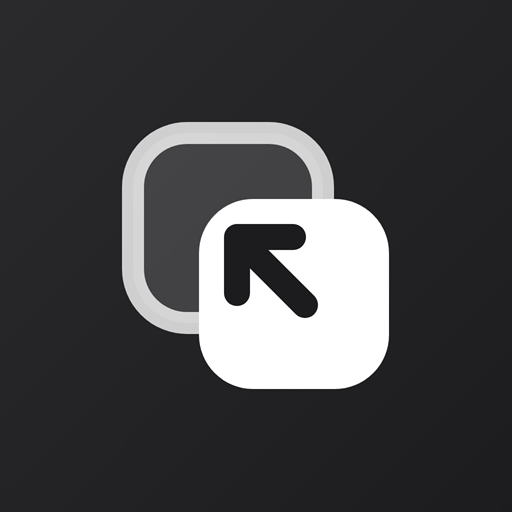
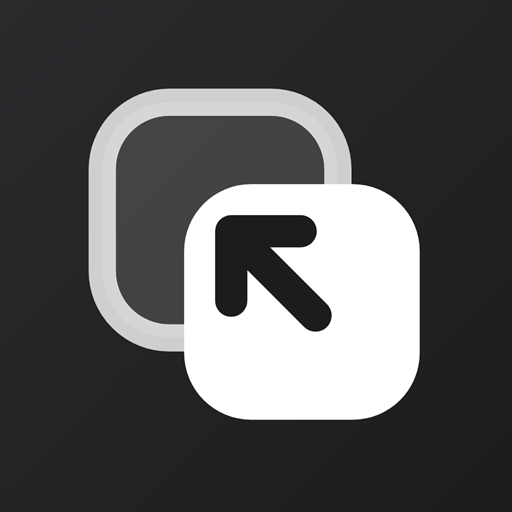
v49: groter teken in het app-icoon (iPhone, Android tot aan de veilige zone, desktop)

Changed region(s): [[0.1562, 0.1562, 0.8438, 0.8438]]

diff --git a/app.js b/app.js
@@ -1,6 +1,6 @@
 'use strict';
 
-const APP_VERSION = 'v48';
+const APP_VERSION = 'v49';
 /* --- Storage: IndexedDB with a projects store and a photos store (Blobs). --- */
 const DB_NAME = 'aligno';
 let db = null;

diff --git a/sw.js b/sw.js
@@ -1,4 +1,4 @@
-const CACHE = 'aligno-v48';
+const CACHE = 'aligno-v49';
 const SHARE_CACHE = 'aligno-share';
 const META_CACHE = 'aligno-meta';
 const ASSETS = [

diff --git a/DESIGN.md b/DESIGN.md
@@ -290,10 +290,10 @@ Een nieuw onderdeel bouw je eerst uit deze componenten. Lukt dat niet, voeg dan 
 ## 17. App-icoon
 
 - **Eén ontwerp**: het Aligno-teken. Twee kaders: de vorige foto als spookkader (lijn, licht gevuld) linksboven, de nieuwe foto als effen wit kader erover, met een **pijl die naar het spookkader wijst**: schuif je nieuwe foto op de vorige. Geen plus (die leest als "toevoegen"). Wit op vlak grafiet met hooguit een nauwelijks zichtbaar verloop (#2A2A2D → #1C1C1E). **Geen gloed, lichtvlek of schaduw**: het systeem (Liquid Glass op iOS, Material op Android) legt zelf zijn effecten erover. Het in-app-logo (startpagina en kop van Home) is hetzelfde teken.
-- **Bronbestanden** staan in `icons/src/` (`icon-full.svg`, `icon-rounded.svg`, `icon-mono.svg`, `icon-small.svg`). Een wijziging aan het icoon gebeurt daar, daarna `powershell -ExecutionPolicy Bypass -File icons/src/export.ps1` (Windows). Nooit losse PNG's met de hand aanpassen.
+- **Bronbestanden** staan in `icons/src/` (`icon-ios.svg`, `icon-full.svg`, `icon-rounded.svg`, `icon-mono.svg`, `icon-small.svg`). **Het teken vult het icoon royaal**: weinig lege ruimte, zo groot als elk platform toelaat. Een wijziging aan het icoon gebeurt daar, daarna `powershell -ExecutionPolicy Bypass -File icons/src/export.ps1` (Windows). Nooit losse PNG's met de hand aanpassen.
 - **Varianten en waarvoor**:
-  - `apple-touch-icon.png` 180 px, ondoorzichtig, volle vlak: iPhone/iPad-beginscherm. iOS rondt zelf af en legt zelf het glaseffect erover (Liquid Glass), en maakt er in de modi **Getint** en **Helder** zelf een grijswaardenversie van. Daarom: één eenvoudig teken met veel contrast (wit op bijna zwart), geen fijne details of kleurverschillen die dan wegvallen.
-  - `icon-192/512-maskable.png`, volle vlak: Android, dat er zelf een vorm uit snijdt (cirkel, squircle, afgeronde rechthoek, druppel). Het teken blijft binnen de veilige zone (cirkel met straal 40% van het midden).
+  - `apple-touch-icon.png` 180 px (bron `icon-ios.svg`), ondoorzichtig, volle vlak: iPhone/iPad-beginscherm. Het teken vult hier het meest (schaal 1.32, ongeveer twee derde van de breedte): iOS rondt alleen de hoeken af. iOS rondt zelf af en legt zelf het glaseffect erover (Liquid Glass), en maakt er in de modi **Getint** en **Helder** zelf een grijswaardenversie van. Daarom: één eenvoudig teken met veel contrast (wit op bijna zwart), geen fijne details of kleurverschillen die dan wegvallen.
+  - `icon-192/512-maskable.png`, volle vlak: Android, dat er zelf een vorm uit snijdt (cirkel, squircle, afgeronde rechthoek, druppel). Het teken is zo groot als de veilige zone toelaat (cirkel met straal 40% van het midden, schaal 1.24): groter en de launcher snijdt de hoeken in een ronde vorm af.
   - `icon-monochrome.png`, wit op transparant: Android-thema-iconen (de launcher kleurt het in met de kleuren van de achtergrond) en het meldingsicoontje. De pijl is er uitgesneden, zodat hij in elke themakleur leesbaar blijft.
   - `icon-192/512.png`: in de vorm van een app-icoon, een **squircle** (superellips met exponent 5,2), op 94% van het vlak met wat transparante ruimte rond. Voor computers, Chrome en splash screens.
   - `icon.svg`, `favicon-32.png` en `favicon-16.png` komen uit `icon-small.svg`: hetzelfde teken, groter in het vlak en met zwaardere lijnen en pijl, zodat het op 16 tot 32 px in een browsertabblad scherp en leesbaar blijft.
